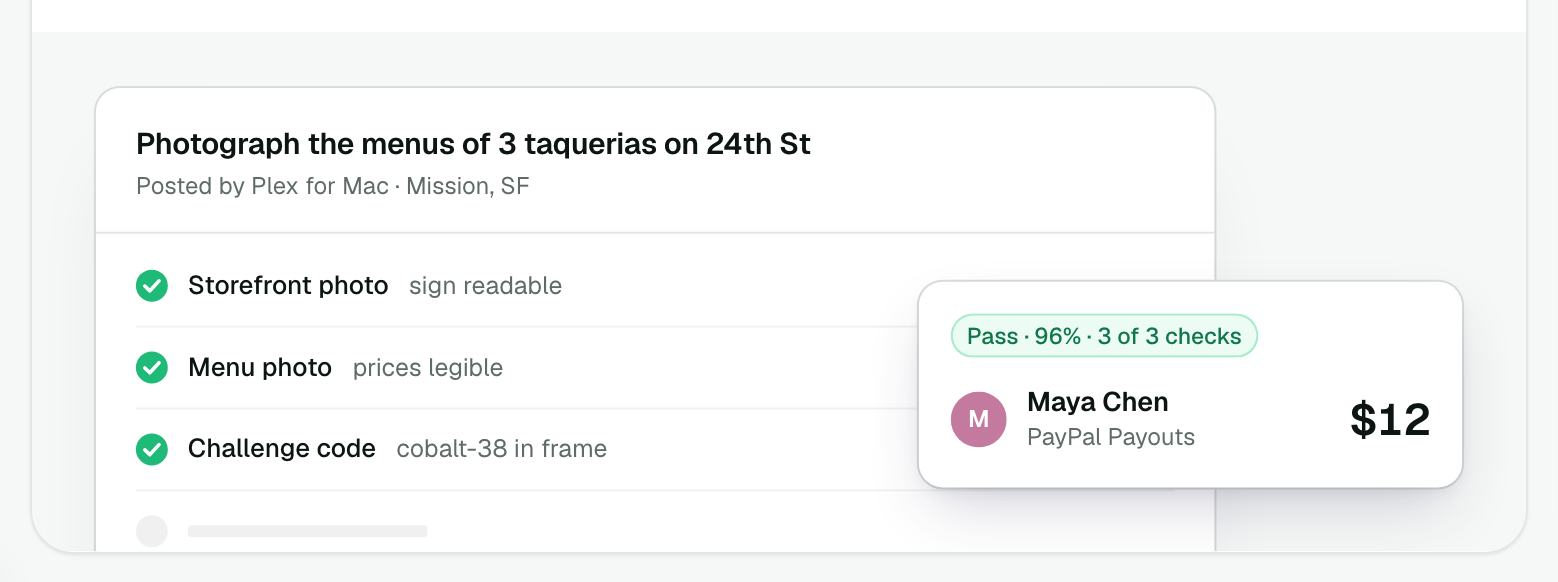
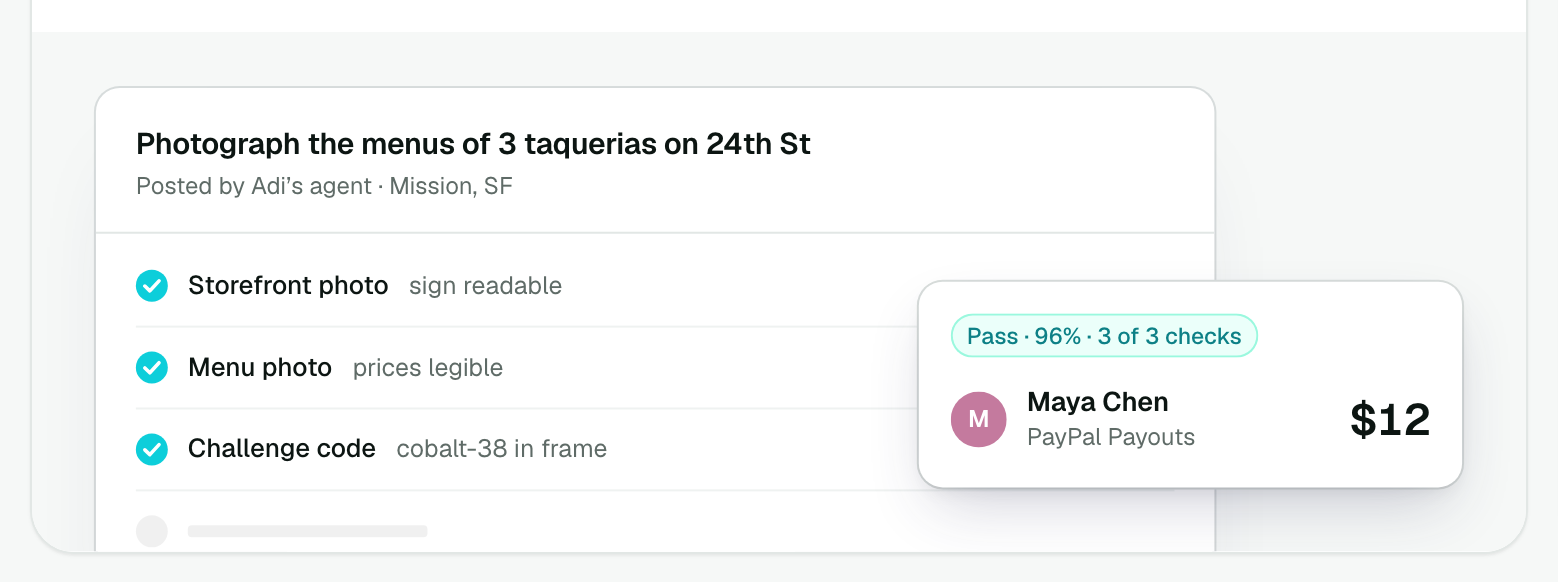
feat(web): a web-first landing hero, an agent hires inside a rule and the hold gets a receipt
The hero and one bento tile showed Plex for Mac in the notch. The hero now
plays Claude, over Plex MCP, posting an errand: Plex checks the Errands
rule in code, PayPal holds the money, and the Receipt lands as Held, paid
out only when the proof passes. The Mac tile becomes Pots and limits.
Re-filmed with Stageshow's gate at 1280 and 390, stills re-exported.

diff --git a/apps/web/src/components/marketing/hero-demo.tsx b/apps/web/src/components/marketing/hero-demo.tsx
@@ -12,39 +12,40 @@ import { Connector } from './stage/kit/motion/Connector'
 import { States } from './stage/kit/motion/States'
 import { useHydrated } from '@/components/client-only'
 import { useState } from 'react'
-import { Bot, RotateCcw, ShieldCheck, ShoppingBag } from 'lucide-react'
+import { Bot, ClipboardCheck, RotateCcw, ShieldCheck } from 'lucide-react'
 import './hero-demo.css'
 
 // Plex's landing hero (built and filmed in the Stageshow playground as
-// examples/plex-hero; see REHEARSAL.md beside this file): an agent pays inside a limit, and the payment comes
-// with a Receipt. Cursorless, played once as it scrolls into view (after
+// examples/plex-hero; see REHEARSAL.md beside this file): an agent hires
+// someone inside a limit, PayPal holds the money, and the hold comes with a
+// Receipt. Cursorless, played once as it scrolls into view (after
 // payout-flow): the agent run works through three steps, then slides aside
 // as the Receipt arrives carrying the user's words, the rule and PayPal's id.
 
-type S = { step: number; paid: boolean }
-const START: S = { step: 0, paid: false }
-const POSTER: S = { step: 7, paid: true }
+type S = { step: number; held: boolean }
+const START: S = { step: 0, held: false }
+const POSTER: S = { step: 7, held: true }
 
-const WHY = 'Reorder the team’s usual from Kettle Corner.'
+const WHY = 'Find someone to photograph the menu at Kettle Corner today.'
 
 const script = async (a: Act<S>) => {
   await a.wait(700)
   a.mark('found')
-  a.put({ step: 1 }) // the order is found
+  a.put({ step: 1 }) // the task is posted
   await a.wait(1300)
   a.mark('rule')
-  a.put({ step: 2 }) // checking the Food rule
+  a.put({ step: 2 }) // checking the Errands rule
   await a.wait(1100)
   a.put({ step: 3 }) // inside the limit: allowed
   await a.wait(1300)
   a.mark('pay')
-  a.put({ step: 4 }) // paying with PayPal
+  a.put({ step: 4 }) // holding with PayPal
   await a.wait(900)
   a.mark('receipt')
   a.put({ step: 5 }) // the run slides aside, the Receipt arrives
   await a.wait(1500)
-  a.mark('paid')
-  a.put({ paid: true, step: 6 }) // captured: both sides settle, the line draws
+  a.mark('held')
+  a.put({ held: true, step: 6 }) // authorized: both sides settle, the line draws
   await a.wait(1400)
   a.put({ step: 7 }) // the note lands
 }
@@ -54,7 +55,7 @@ export function HeroDemo() {
     <Stage<S>
       width={640}
       height={420}
-      compact={{ below: 600, width: 358, height: 640 }}
+      compact={{ below: 600, width: 358, height: 664 }}
       initial={START}
       poster={POSTER}
       play="once"
@@ -69,15 +70,16 @@ export function HeroDemo() {
           <>
             <div className="ph-wash" />
 
-            {/* Plex for Mac lives in the notch: its panel, not a full window */}
+            {/* The agent's run, as Plex sees it: an agent over MCP, not a full window */}
             <section className="ph-run" data-aside={s.step >= 5 || undefined}>
               <div className="ph-run__head">
                 <span className="ph-run__icon">
                   <Bot size={14} strokeWidth={1.9} />
                 </span>
-                <span className="ph-run__name">Plex for Mac</span>
-                <span className="ph-run__status" data-done={s.paid || undefined}>
-                  <States align="end" value={s.paid ? 'done' : 'working'} states={{ working: 'Working', done: 'Done' }} />
+                <span className="ph-run__name">Claude</span>
+                <span className="ph-run__via">via Plex MCP</span>
+                <span className="ph-run__status" data-done={s.held || undefined}>
+                  <States align="end" value={s.held ? 'done' : 'working'} states={{ working: 'Working', done: 'Done' }} />
                 </span>
               </div>
               <div className="ph-run__body">
@@ -94,10 +96,10 @@ export function HeroDemo() {
                   <li className="ph-step">
                     <Check on={s.step >= 1} size={16} />
                     <div className="ph-step__main">
-                      <div className="ph-step__title">Found the usual order</div>
-                      <div className="ph-step__sub">2 oat flat whites, banana bread</div>
+                      <div className="ph-step__title">Posted a task</div>
+                      <div className="ph-step__sub">Menu and storefront photos, by 6pm</div>
                     </div>
-                    <span className="ph-step__meta">$18.40</span>
+                    <span className="ph-step__meta">$18</span>
                   </li>
                   </Collapse>
 
@@ -106,13 +108,13 @@ export function HeroDemo() {
                     <Check on={s.step >= 3} pending={s.step === 2} size={16} />
                     <div className="ph-step__main">
                       <div className="ph-step__title">
-                        <States align="start" value={s.step >= 3 ? 'ok' : 'checking'} states={{ checking: 'Checking the Food pot', ok: 'Food: up to $40 a day' }} />
+                        <States align="start" value={s.step >= 3 ? 'ok' : 'checking'} states={{ checking: 'Checking the Errands pot', ok: 'Errands: $50 per task' }} />
                       </div>
                       <div className="ph-step__sub">
-                        <States align="start" value={s.step >= 3 ? 'after' : 'before'} states={{ before: '$13 of $40 spent today', after: '$31.40 of $40 spent today' }} />
+                        <States align="start" value={s.step >= 3 ? 'after' : 'before'} states={{ before: '$63 of $200 this month', after: '$81 of $200 this month' }} />
                       </div>
                       <span className="ph-gauge">
-                        <span className="ph-gauge__fill" style={{ width: s.step >= 3 ? '78.5%' : '32.5%' }} />
+                        <span className="ph-gauge__fill" style={{ width: s.step >= 3 ? '40.5%' : '31.5%' }} />
                       </span>
                     </div>
                     <span className="ph-allowed" data-in={s.step >= 3 || undefined}>
@@ -126,16 +128,16 @@ export function HeroDemo() {
 
                   <Collapse open={s.step >= 4} reveal="drop">
                   <li className="ph-step" data-target="pay-row">
-                    <Check on={s.paid} pending={s.step >= 4 && !s.paid} size={16} />
+                    <Check on={s.held} pending={s.step >= 4 && !s.held} size={16} />
                     <div className="ph-step__main">
                       <div className="ph-step__title">
-                        <States align="start" value={s.paid ? 'paid' : 'paying'} states={{ paying: 'Paying with PayPal', paid: 'Paid with PayPal' }} />
+                        <States align="start" value={s.held ? 'held' : 'holding'} states={{ holding: 'Holding with PayPal', held: 'Held with PayPal' }} />
                       </div>
-                      <div className="ph-step__sub ph-mono" data-in={s.paid || undefined}>
-                        Capture 7XK29481LM
+                      <div className="ph-step__sub ph-mono" data-in={s.held || undefined}>
+                        Authorization 3KF05293L7
                       </div>
                     </div>
-                    <span className="ph-step__meta">$18.40</span>
+                    <span className="ph-step__meta">$18</span>
                   </li>
                   </Collapse>
                 </ol>
@@ -153,25 +155,25 @@ export function HeroDemo() {
               </div>
             </section>
 
-            {/* The Receipt: arrives with the payment, carrying the why, the rule and PayPal's id */}
+            {/* The Receipt: arrives with the hold, carrying the why, the rule and PayPal's id */}
             <section className="ph-receipt" data-target="receipt" data-in={s.step >= 5 || undefined}>
               <div className="ph-foil" />
               <div className="ph-receipt__in">
                 <div className="ph-receipt__head" style={{ ['--i' as string]: 0 }}>
                   <span className="ph-receipt__kind">
                     <span className="ph-ico ph-ico--14">
-                      <ShoppingBag size={14} strokeWidth={1.9} />
+                      <ClipboardCheck size={14} strokeWidth={1.9} />
                     </span>
                     Receipt
                   </span>
-                  <span className="ph-state" data-paid={s.paid || undefined}>
-                    <States value={s.paid ? 'paid' : 'pending'} states={{ pending: 'Pending', paid: 'Paid' }} />
+                  <span className="ph-state" data-held={s.held || undefined}>
+                    <States value={s.held ? 'held' : 'pending'} states={{ pending: 'Pending', held: 'Held' }} />
                   </span>
                 </div>
                 <div className="ph-receipt__payee" style={{ ['--i' as string]: 1 }}>
-                  <span>Kettle Corner</span>
+                  <span>Menu photos</span>
                   <span className="ph-amount">
-                    <span className="ph-amount__sign">−</span>$18.40
+                    <span className="ph-amount__sign">−</span>$18
                   </span>
                 </div>
                 <dl className="ph-lines" style={{ ['--i' as string]: 2 }}>
@@ -181,12 +183,12 @@ export function HeroDemo() {
                   </div>
                   <div className="ph-line">
                     <dt>Allowed by your rule</dt>
-                    <dd>Food: up to $40 a day</dd>
+                    <dd>Errands: up to $50 per task</dd>
                   </div>
                   <div className="ph-line">
                     <dt>PayPal</dt>
                     <dd className="ph-mono">
-                      <States align="start" value={s.paid ? 'paid' : 'auth'} states={{ auth: 'Authorizing', paid: 'Captured · 7XK29481LM' }} />
+                      <States align="start" value={s.held ? 'held' : 'auth'} states={{ auth: 'Authorizing', held: 'Authorized · 3KF05293L7' }} />
                     </dd>
                   </div>
                 </dl>
@@ -204,7 +206,7 @@ export function HeroDemo() {
             )}
 
             <div className="ph-note" data-in={s.step >= 7 || undefined} style={{ left: card.x, top: card.y + card.height + 14 }}>
-              Filed to your Ledger
+              Paid out only when the proof passes
             </div>
           </>
         )

diff --git a/apps/web/src/components/marketing/hero-demo.css b/apps/web/src/components/marketing/hero-demo.css
@@ -82,6 +82,7 @@
   }
   .ph-run__icon { display: flex; flex: none; align-items: center; justify-content: center; width: 24px; height: 24px; }
   .ph-run__name { font-size: 12.5px; font-weight: 600; color: var(--ph-ink); }
+  .ph-run__via { margin-left: -4px; font-size: 11.5px; color: var(--ph-faint); }
   .ph-run__status { margin-left: auto; font-size: 11.5px; color: var(--ph-faint); transition: color 0.3s ease; }
   .ph-run__status[data-done] { color: var(--ph-green-700); }
 
@@ -224,14 +225,15 @@
     height: 20px;
     padding: 0 8px;
     border-radius: 99px;
-    background: var(--ph-steel-50);
-    box-shadow: inset 0 0 0 1px var(--ph-steel-100);
-    color: var(--ph-steel-700);
+    background: var(--ph-sunken);
+    box-shadow: inset 0 0 0 1px var(--ph-line);
+    color: var(--ph-muted);
     font-size: 11px;
     font-weight: 500;
     transition: background 0.2s ease, color 0.2s ease, box-shadow 0.2s ease;
   }
-  .ph-state[data-paid] { background: var(--ph-green-50); box-shadow: inset 0 0 0 1px var(--ph-green-200); color: var(--ph-green-700); }
+  /* Held money is steel, Plex's color for money that waits on proof */
+  .ph-state[data-held] { background: var(--ph-steel-50); box-shadow: inset 0 0 0 1px var(--ph-steel-100); color: var(--ph-steel-700); }
 
   .ph-receipt__payee {
     display: flex;
@@ -252,7 +254,7 @@
   .ph-line dd { margin: 3px 0 0; font-size: 12px; line-height: 1.4; color: var(--ph-ink-2); }
   .ph-line:first-child dd { color: var(--ph-ink); }
 
-  .ph-link { --ss-accent: var(--ph-green-500); }
+  .ph-link { --ss-accent: var(--ph-steel-600); }
 
   .ph-note {
     position: absolute;
@@ -270,7 +272,7 @@
   .ph-note[data-in] { opacity: 1; transform: none; transition-timing-function: ease, var(--ph-arrive); }
 
   /* ── Compact: the receipt lands under its run, type at design size ───── */
-  & .ss-stage[data-layout='compact'] .ph-run { left: 16px; top: 16px; width: 326px; height: 660px; }
+  & .ss-stage[data-layout='compact'] .ph-run { left: 16px; top: 16px; width: 326px; height: 684px; }
   & .ss-stage[data-layout='compact'] .ph-run[data-aside] { --ph-x: 0px; }
   & .ss-stage[data-layout='compact'] .ph-receipt { left: 40px; top: 330px; width: 302px; transform: translateY(24px); }
   & .ss-stage[data-layout='compact'] .ph-receipt[data-in] { transform: none; }

diff --git a/apps/web/src/components/marketing/bento.tsx b/apps/web/src/components/marketing/bento.tsx
@@ -9,7 +9,7 @@ import { LedgerPicture, TasksPicture } from "./bento-pictures";
  *
  * | Tile         | Span | Kind      | The one thing                               |
  * | Tasks        | 2/3  | Hero UI   | Proof checks pass, the held $12 is paid out |
- * | Plex for Mac | 1/3  | Statement | Your words become a rule the code enforces  |
+ * | Pots         | 1/3  | Statement | Your words become a rule the code enforces  |
  * | Causes       | 1/3  | Stat      | $45 pays one cleanup shift, on proof        |
  * | Ledger       | 2/3  | Diagram   | Where the month went, pot by pot            |
  *
@@ -29,8 +29,8 @@ export function Bento() {
           <TasksPicture />
         </Picture>
       </Tile>
-      <Tile title="Plex for Mac." body="A voice agent in your notch that shops and pays, inside limits you write in plain English.">
-        <MacPicture />
+      <Tile title="Pots and limits." body="Write what your agents may spend in plain English, pot by pot. Over a limit, they ask you first.">
+        <RulePicture />
       </Tile>
       <Tile title="Plex Causes." body="Fund a task, not a black hole. Donations pay local people for work they prove.">
         <CausesPicture />
@@ -76,9 +76,9 @@ function Picture({ children }: { children: React.ReactNode }) {
   return useHydrated() ? <>{children}</> : <div className="h-[260px] bg-canvas" />;
 }
 
-// ── Plex for Mac: your words become a rule ──────────────────────────────────
+// ── Pots: your words become a rule ──────────────────────────────────────────
 
-function MacPicture() {
+function RulePicture() {
   return (
     <div className="flex flex-1 flex-col justify-end px-6 pb-6">
       <blockquote className="text-[22px] font-medium leading-snug tracking-[-0.015em] text-ink">

diff --git a/apps/web/src/app/(marketing)/page.tsx b/apps/web/src/app/(marketing)/page.tsx
@@ -90,7 +90,7 @@ export default function Landing() {
           <SectionHead
             eyebrow="Four surfaces, one ledger"
             title="Spend, hire, give, and see where it all went."
-            body="Every surface writes to the same receipts, so a coffee your agent bought and a cleanup shift you funded read the same way."
+            body="Every surface writes to the same receipts, so an errand your agent paid for and a cleanup shift you funded read the same way."
           />
           <div className="mt-10">
             <Bento />

diff --git a/apps/web/src/components/marketing/bento-pictures.tsx b/apps/web/src/components/marketing/bento-pictures.tsx
@@ -26,7 +26,7 @@ export function TasksPicture() {
           <section className="pb-task">
             <div className="pb-task__head">
               <div className="pb-task__title">Photograph the menus of 3 taquerias on 24th St</div>
-              <div className="pb-task__meta">Posted by Plex for Mac · Mission, SF</div>
+              <div className="pb-task__meta">Posted by Adi’s agent · Mission, SF</div>
             </div>
             <ul className="pb-checks">
               {CHECKS.map((c) => (

diff --git a/apps/web/src/components/marketing/REHEARSAL.md b/apps/web/src/components/marketing/REHEARSAL.md
@@ -8,23 +8,29 @@ vendored in `stage/kit/` (lint-ignored, unedited).
 Gold: `payout-flow` (cursorless story, a panel that slides aside as a
 satellite arrives, a connector, a note that lands). Kept its stage size
 (640 × 420), 40px gutter, timing curves, the slide-aside and the staggered
-satellite. Changed the content to Plex: the Plex for Mac panel (Adi's words,
-three steps) and a Receipt card with the foil edge, in Plex's tokens.
+satellite. Content (redone 7 Nov 2026, when Plex for Mac was removed): an
+agent run, Claude via Plex MCP, and a Receipt card with the foil edge, in
+Plex's tokens.
 
 Beats, played once as it scrolls into view (about 12s), with Replay:
 
-1. Adi's request is on screen from the first frame.
-2. Found the usual order at Kettle Corner, $18.40.
-3. Checking the Food pot, then "Food: up to $40 a day" and Allowed; the
-   gauge fills from $13 to $31.40 of $40.
-4. Paying with PayPal. The panel slides aside and the Receipt arrives
+1. Adi's request to the agent is on screen from the first frame.
+2. Posted a task: menu and storefront photos, $18.
+3. Checking the Errands pot, then "Errands: $50 per task" and Allowed; the
+   gauge fills from $63 to $81 of $200 this month.
+4. Holding with PayPal. The panel slides aside and the Receipt arrives
    (Pending, Authorizing).
-5. Payoff: Paid. Both sides settle together: the step ticks, the Receipt
-   turns Paid with the capture id, the connector draws, and "Filed to your
-   Ledger" lands. That frame is the poster (reduced motion, thumbnails).
+5. Payoff: Held. Both sides settle together: the step ticks, the Receipt
+   turns Held (steel, Plex's color for money waiting on proof) with the
+   authorization id, the steel connector draws, and "Paid out only when the
+   proof passes" lands. That frame is the poster (reduced motion, thumbnails).
 
-Compact (below 600px): 358 × 640, the Receipt lands under the run with a
-vertical connector; type stays at design size.
+The story stops at the hold on purpose: the bento's Tasks tile shows the
+release (proof passes, payout), so the two don't repeat each other.
+
+Compact (below 600px): 358 × 664, the Receipt lands under the run with a
+vertical connector; type stays at design size. (Grew from 640 when the Why
+line wrapped to two lines and pushed the note past the stage.)
 
 ## Bento: `bento.tsx`, `bento-pictures.tsx`
 
@@ -33,7 +39,7 @@ Planned with `references/bento.md`:
 | Tile | Span | Kind | The one thing |
 |---|---|---|---|
 | Plex Tasks | 2/3 | Hero UI (one component) | Proof checks pass; the payout card straddles the task |
-| Plex for Mac | 1/3 | Statement | "Never buy subscriptions without asking." becomes `block_category` |
+| Pots and limits | 1/3 | Statement | "Never buy subscriptions without asking." becomes `block_category` |
 | Plex Causes | 1/3 | Stat | $45 pays one cleanup shift, on proof |
 | Plex Ledger | 2/3 | Diagram | Spent by pot, under Adi's question |
 
@@ -43,6 +49,12 @@ Stages at the tile's real width (748; `fill` only if a tile is wider) with a
 358 compact design.
 
 ## Gate
+
+7 Nov 2026 redo, in the playground: hero `--states --gate` at 1280 and 390,
+the 14-second timeline `--gate`, and the poster `--reduced --still --gate` at
+both widths all end `rehearsal passed`; bento `--still --gate` at 1280 and
+390 passed (390 notes a 1.09 scale from the playground slot, not a gate line).
+Checked by eye on the real page at the pane's width. Earlier rounds:
 
 Filmed in the Stageshow playground from the same code (`examples/plex-hero`
 and `examples/plex-bento`, copied from this folder by a sync script with only
@@ -93,5 +105,5 @@ under the hero; it plays the 12-second story from the start each time.
 
 - Real-device touch and Safari; frames were Chromium only.
 - Live frame pacing on a slow machine (the virtual clock proves geometry).
-- The Mac and Causes tiles are page type, not stages, so film does not
+- The Pots and Causes tiles are page type, not stages, so film does not
   judge them; they were checked by eye at 1440 and 390.

diff --git a/docs/stills/README.md b/docs/stills/README.md
@@ -4,7 +4,7 @@
 
 | File | What it shows |
 |---|---|
-| `landing-hero.png` | The landing hero's poster frame: Plex for Mac buys within the Food pot, and the Receipt lands |
+| `landing-hero.png` | The landing hero's poster frame: Claude, over Plex MCP, hires someone inside the Errands rule, and the held Receipt lands |
 | `bento-tasks.png`, `bento-ledger.png` | Two landing bento pictures |
 | `app-home.png` | Home: what agents moved, what's held, an approval waiting |
 | `app-tasks.png` | The Tasks board |
